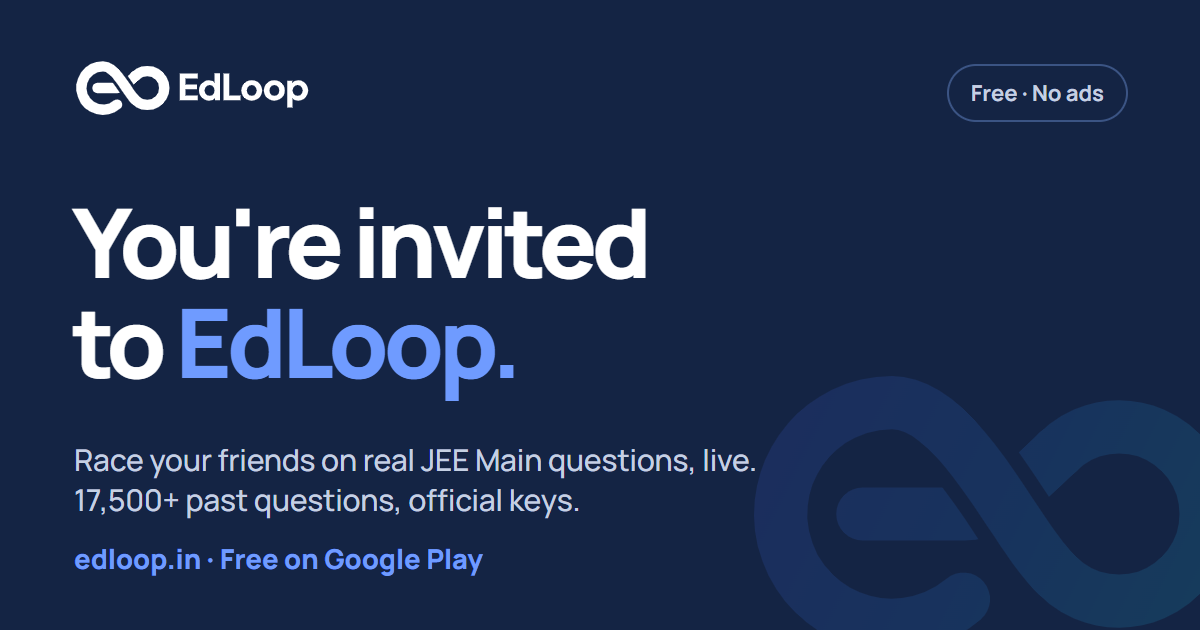
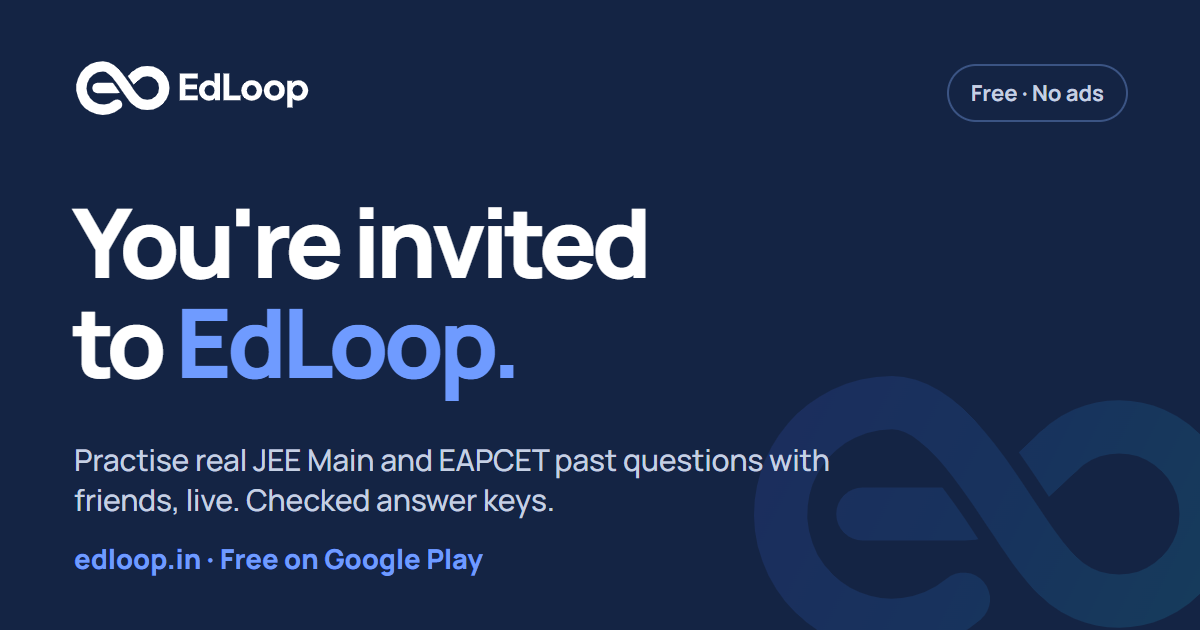
Invite preview: exam-neutral text for both apps

Changed region(s): [[0.0617, 0.6937, 0.7092, 0.8143]]

diff --git a/404.html b/404.html
@@ -12,7 +12,7 @@
   <meta property="og:site_name" content="EdLoop">
   <meta property="og:title" content="You're invited to EdLoop">
   <meta property="og:description" content="Practise real JEE Main and EAPCET past questions with friends, live. Free on Google Play.">
-  <meta property="og:image" content="https://edloop.in/assets/brand/invite.png?v=1">
+  <meta property="og:image" content="https://edloop.in/assets/brand/invite.png?v=2">
   <meta property="og:image:width" content="1200">
   <meta property="og:image:height" content="630">
   <meta name="twitter:card" content="summary_large_image">

diff --git a/assets/brand/make_invite.html b/assets/brand/make_invite.html
@@ -30,7 +30,7 @@
   <img class="logo" src="lockup-white.svg" alt="EdLoop">
   <span class="pill">Free · No ads</span>
   <h1>You're invited<br>to <span>EdLoop.</span></h1>
-  <p class="sub">Race your friends on real JEE Main questions, live. 17,500+ past questions, official keys.</p>
+  <p class="sub">Practise real JEE Main and EAPCET past questions with friends, live. Checked answer keys.</p>
   <p class="url">edloop.in · Free on Google Play</p>
 </body>
 </html>
